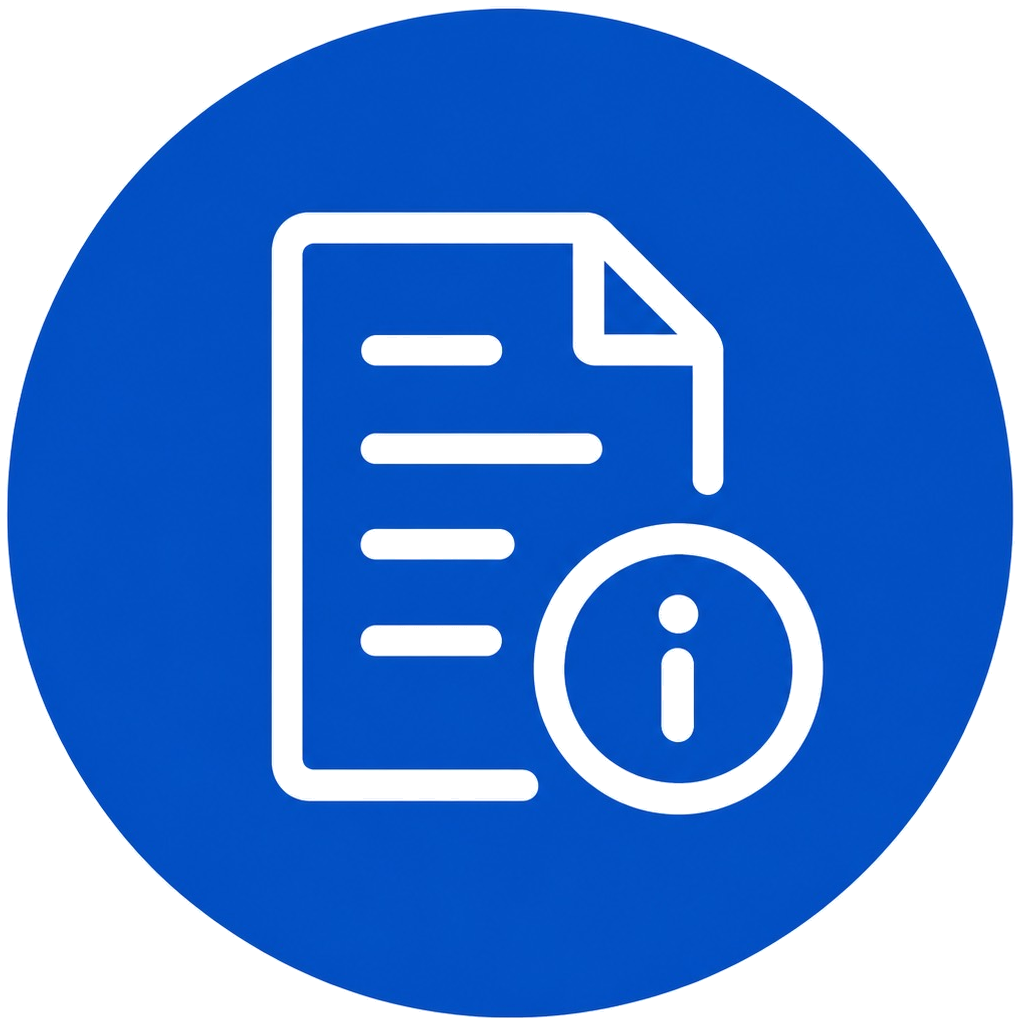
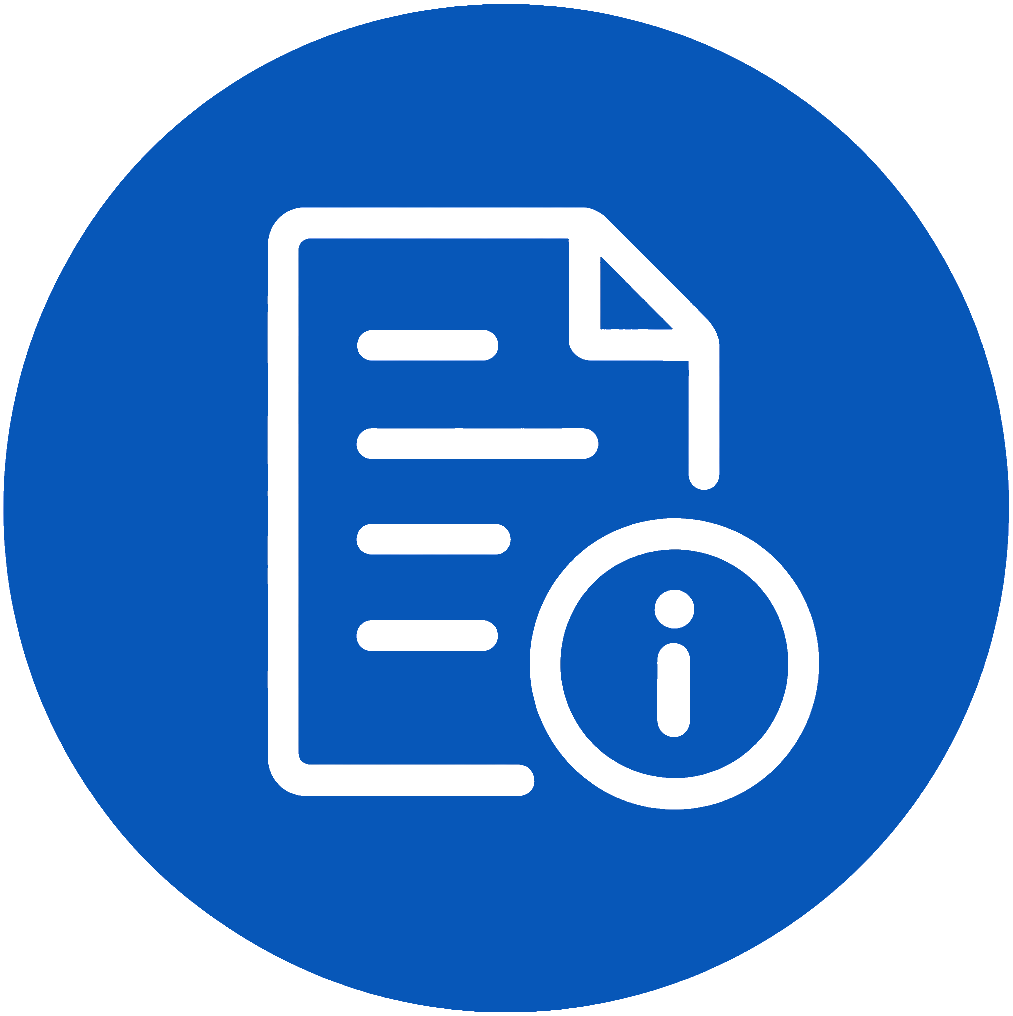
Corrige layout dos valores da simulacao

diff --git a/components/SimulationGenerator.jsx b/components/SimulationGenerator.jsx
@@ -276,6 +276,19 @@ export default function SimulationGenerator({ properties = [], initialSimulation
     }));
   }
 
+  function removeBenefit(propertyIndex, benefitIndex) {
+    setForm((current) => ({
+      ...current,
+      properties: current.properties.map((property, itemIndex) => {
+        if (itemIndex !== propertyIndex) return property;
+        const benefits = property.benefits
+          .filter((_, index) => index !== benefitIndex)
+          .map((benefit, displayOrder) => ({ ...benefit, displayOrder }));
+        return { ...property, benefits };
+      })
+    }));
+  }
+
   async function saveSimulation() {
     setSaving(true);
     setError("");
@@ -470,6 +483,14 @@ export default function SimulationGenerator({ properties = [], initialSimulation
                     <span className="flex gap-2">
                       <button className="rounded-full border border-line bg-white px-3 py-1 text-brand disabled:opacity-30" disabled={benefitIndex === 0} onClick={() => moveBenefit(propertyIndex, benefitIndex, -1)} type="button">↑</button>
                       <button className="rounded-full border border-line bg-white px-3 py-1 text-brand disabled:opacity-30" disabled={benefitIndex === property.benefits.length - 1} onClick={() => moveBenefit(propertyIndex, benefitIndex, 1)} type="button">↓</button>
+                      <button
+                        aria-label={`Remover ${benefit.text}`}
+                        className="rounded-full border border-red-100 bg-white px-3 py-1 text-red-600 transition hover:border-red-200 hover:bg-red-50"
+                        onClick={() => removeBenefit(propertyIndex, benefitIndex)}
+                        type="button"
+                      >
+                        <Trash2 className="h-4 w-4" />
+                      </button>
                     </span>
                   </div>
                 ))}
@@ -688,6 +709,30 @@ function buildSimulationResultSvg(form, totals, simulationAssets = {}) {
   const mainValue = totals.total;
   const subtitle = "Soma do financiamento + subsídio";
   const client = escapeXml(form.clientName || "Cliente");
+  const mainValueSvg = fittedSvgText(formatCurrency(mainValue), {
+    x: 540,
+    y: 625,
+    maxWidth: 900,
+    maxFontSize: 84,
+    minFontSize: 64,
+    fill: "#072D65"
+  });
+  const financingValueSvg = fittedSvgText(formatCurrency(totals.financing), {
+    x: 365,
+    y: 890,
+    maxWidth: 315,
+    maxFontSize: 39,
+    minFontSize: 30,
+    fill: "#072D65"
+  });
+  const subsidyValueSvg = fittedSvgText(formatCurrency(totals.subsidy), {
+    x: 835,
+    y: 890,
+    maxWidth: 290,
+    maxFontSize: 39,
+    minFontSize: 30,
+    fill: "#072D65"
+  });
 
   return {
     title: "Resultado",
@@ -714,16 +759,16 @@ function buildSimulationResultSvg(form, totals, simulationAssets = {}) {
 
   <rect x="42" y="430" width="996" height="520" rx="42" fill="#fff" filter="url(#shadow)"/>
   <text x="540" y="505" text-anchor="middle" font-family="Inter, Arial" font-weight="900" font-size="34" letter-spacing="1.5" fill="#0757B8">PODER TOTAL DE COMPRA:</text>
-  <text x="540" y="625" text-anchor="middle" font-family="Inter, Arial" font-weight="900" font-size="84" fill="#072D65">${escapeXml(formatCurrency(mainValue))}</text>
+  ${mainValueSvg}
   <text x="540" y="697" text-anchor="middle" font-family="Inter, Arial" font-size="31" fill="#072D65">${escapeXml(subtitle)}</text>
   <line x1="98" x2="982" y1="760" y2="760" stroke="#B8D2F0" stroke-width="2"/>
-  ${financingIconDataUri ? `<image href="${financingIconDataUri}" x="98" y="792" width="116" height="116" preserveAspectRatio="xMidYMid meet"/>` : `<circle cx="156" cy="850" r="56" fill="#0757B8"/><path d="M136 817 H167 L185 835 V881 H136 Z" fill="none" stroke="#fff" stroke-width="7" stroke-linejoin="round"/><path d="M167 817 V837 H185" fill="none" stroke="#fff" stroke-width="7" stroke-linejoin="round"/><path d="M148 848 H173 M148 865 H164" stroke="#fff" stroke-width="5" stroke-linecap="round"/><circle cx="179" cy="868" r="12" fill="none" stroke="#fff" stroke-width="5"/>`}
-  <text x="360" y="826" text-anchor="middle" font-family="Inter, Arial" font-weight="900" font-size="26" fill="#0757B8">FINANCIAMENTO</text>
-  <text x="360" y="890" text-anchor="middle" font-family="Inter, Arial" font-weight="900" font-size="41" fill="#072D65">${escapeXml(formatCurrency(totals.financing))}</text>
+  ${financingIconDataUri ? `<image href="${financingIconDataUri}" x="78" y="792" width="116" height="116" preserveAspectRatio="xMidYMid meet"/>` : `<circle cx="136" cy="850" r="56" fill="#0757B8"/><path d="M116 817 H147 L165 835 V881 H116 Z" fill="none" stroke="#fff" stroke-width="7" stroke-linejoin="round"/><path d="M147 817 V837 H165" fill="none" stroke="#fff" stroke-width="7" stroke-linejoin="round"/><path d="M128 848 H153 M128 865 H144" stroke="#fff" stroke-width="5" stroke-linecap="round"/><circle cx="159" cy="868" r="12" fill="none" stroke="#fff" stroke-width="5"/>`}
+  <text x="365" y="826" text-anchor="middle" font-family="Inter, Arial" font-weight="900" font-size="26" fill="#0757B8">FINANCIAMENTO</text>
+  ${financingValueSvg}
   <line x1="540" x2="540" y1="800" y2="905" stroke="#D8E6F6" stroke-width="3"/>
-  ${subsidyIconDataUri ? `<image href="${subsidyIconDataUri}" x="578" y="792" width="116" height="116" preserveAspectRatio="xMidYMid meet"/>` : `<circle cx="636" cy="850" r="56" fill="#0757B8"/><path d="M606 865 C620 856 631 856 644 865 L666 877" fill="none" stroke="#fff" stroke-width="7" stroke-linecap="round"/><path d="M610 844 H630 C639 844 644 850 644 857 C644 864 639 869 630 869 H618" fill="none" stroke="#fff" stroke-width="7" stroke-linecap="round" stroke-linejoin="round"/><path d="M647 827 V873" stroke="#fff" stroke-width="5" stroke-linecap="round"/><path d="M662 835 C657 829 651 827 643 828 C634 829 630 834 630 840 C630 849 639 851 647 854 C657 857 663 861 662 868 C661 876 653 880 643 879 C634 879 627 875 623 870" fill="none" stroke="#fff" stroke-width="4" stroke-linecap="round"/>`}
-  <text x="830" y="826" text-anchor="middle" font-family="Inter, Arial" font-weight="900" font-size="26" fill="#0757B8">SUBSÍDIO</text>
-  <text x="830" y="890" text-anchor="middle" font-family="Inter, Arial" font-weight="900" font-size="41" fill="#072D65">${escapeXml(formatCurrency(totals.subsidy))}</text>
+  ${subsidyIconDataUri ? `<image href="${subsidyIconDataUri}" x="570" y="792" width="116" height="116" preserveAspectRatio="xMidYMid meet"/>` : `<circle cx="628" cy="850" r="56" fill="#0757B8"/><path d="M598 865 C612 856 623 856 636 865 L658 877" fill="none" stroke="#fff" stroke-width="7" stroke-linecap="round"/><path d="M602 844 H622 C631 844 636 850 636 857 C636 864 631 869 622 869 H610" fill="none" stroke="#fff" stroke-width="7" stroke-linecap="round" stroke-linejoin="round"/><path d="M639 827 V873" stroke="#fff" stroke-width="5" stroke-linecap="round"/><path d="M654 835 C649 829 643 827 635 828 C626 829 622 834 622 840 C622 849 631 851 639 854 C649 857 655 861 654 868 C653 876 645 880 635 879 C626 879 619 875 615 870" fill="none" stroke="#fff" stroke-width="4" stroke-linecap="round"/>`}
+  <text x="835" y="826" text-anchor="middle" font-family="Inter, Arial" font-weight="900" font-size="26" fill="#0757B8">SUBSÍDIO</text>
+  ${subsidyValueSvg}
 
   <rect x="60" y="1030" width="960" height="305" rx="38" fill="#0757B8"/>
   <text x="540" y="1115" text-anchor="middle" font-family="Inter, Arial" font-style="italic" font-size="37" fill="#fff">Cliente: ${client}</text>
@@ -806,6 +851,32 @@ function wrapSvgText(text, x, y, lineHeight, maxLines, fill, fontSize) {
   }
   if (line && lines.length < maxLines) lines.push(line);
   return lines.map((item, index) => `<text x="${x}" y="${y + index * lineHeight}" font-family="Inter, Arial" font-size="${fontSize}" fill="${fill}">${escapeXml(item)}</text>`).join("");
+}
+
+function fittedSvgText(text, { x, y, maxWidth, maxFontSize, minFontSize, fill, weight = "900", anchor = "middle" }) {
+  const value = String(text || "");
+  const estimatedWidth = estimateSvgTextWidth(value, maxFontSize);
+  const fontSize = estimatedWidth > maxWidth
+    ? Math.max(minFontSize, Math.floor(maxFontSize * (maxWidth / estimatedWidth)))
+    : maxFontSize;
+  const fittedWidth = estimateSvgTextWidth(value, fontSize);
+  const fitAttrs = fittedWidth > maxWidth
+    ? ` textLength="${maxWidth}" lengthAdjust="spacingAndGlyphs"`
+    : "";
+
+  return `<text x="${x}" y="${y}" text-anchor="${anchor}" font-family="Inter, Arial" font-weight="${weight}" font-size="${fontSize}" fill="${fill}"${fitAttrs}>${escapeXml(value)}</text>`;
+}
+
+function estimateSvgTextWidth(text, fontSize) {
+  const widthUnits = Array.from(String(text || "")).reduce((total, char) => {
+    if (char === " ") return total + 0.32;
+    if (char === "." || char === ",") return total + 0.24;
+    if (char === "$") return total + 0.62;
+    if (/[0-9]/.test(char)) return total + 0.58;
+    return total + 0.6;
+  }, 0);
+
+  return widthUnits * fontSize;
 }
 
 async function svgToPngDataUrl(svg) {